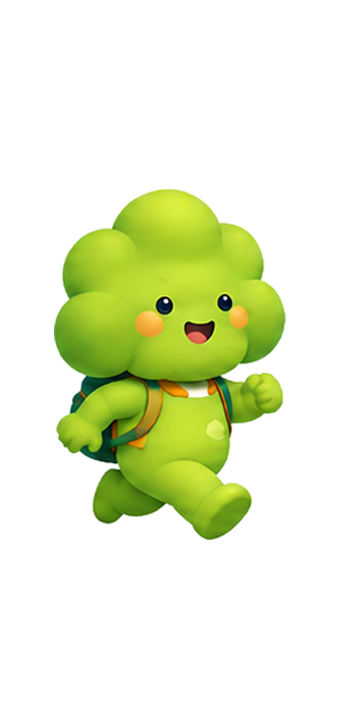
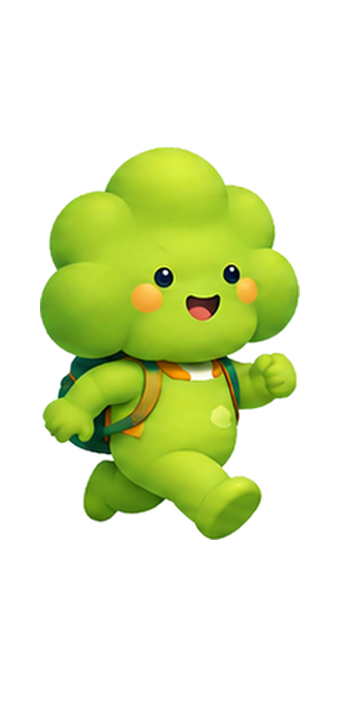
fix: normalize and densify mascot animation poses

Changed region(s): [[0.1176, 0.1823, 0.8824, 0.7597]]

diff --git a/src/integration/ui/styles.css b/src/integration/ui/styles.css
@@ -520,12 +520,12 @@ button { color: inherit; }
   display: block;
   background: url('/assets/canopy-ui/journey-start-animation-sprite.png') 0 center / auto 100% no-repeat;
   filter: drop-shadow(0 6px 7px rgba(16, 64, 43, .12));
-  animation: startSprite 4.8s steps(24, end) infinite;
+  animation: startSprite 4.8s steps(32, end) infinite;
   will-change: background-position;
 }
 @keyframes startSprite {
   from { background-position: 0 center; }
-  to { background-position: -4075.5px center; }
+  to { background-position: -5434px center; }
 }
 .start-character-fallback { display: none; position: absolute; inset: 0; }
 .start-character .character-frame {
